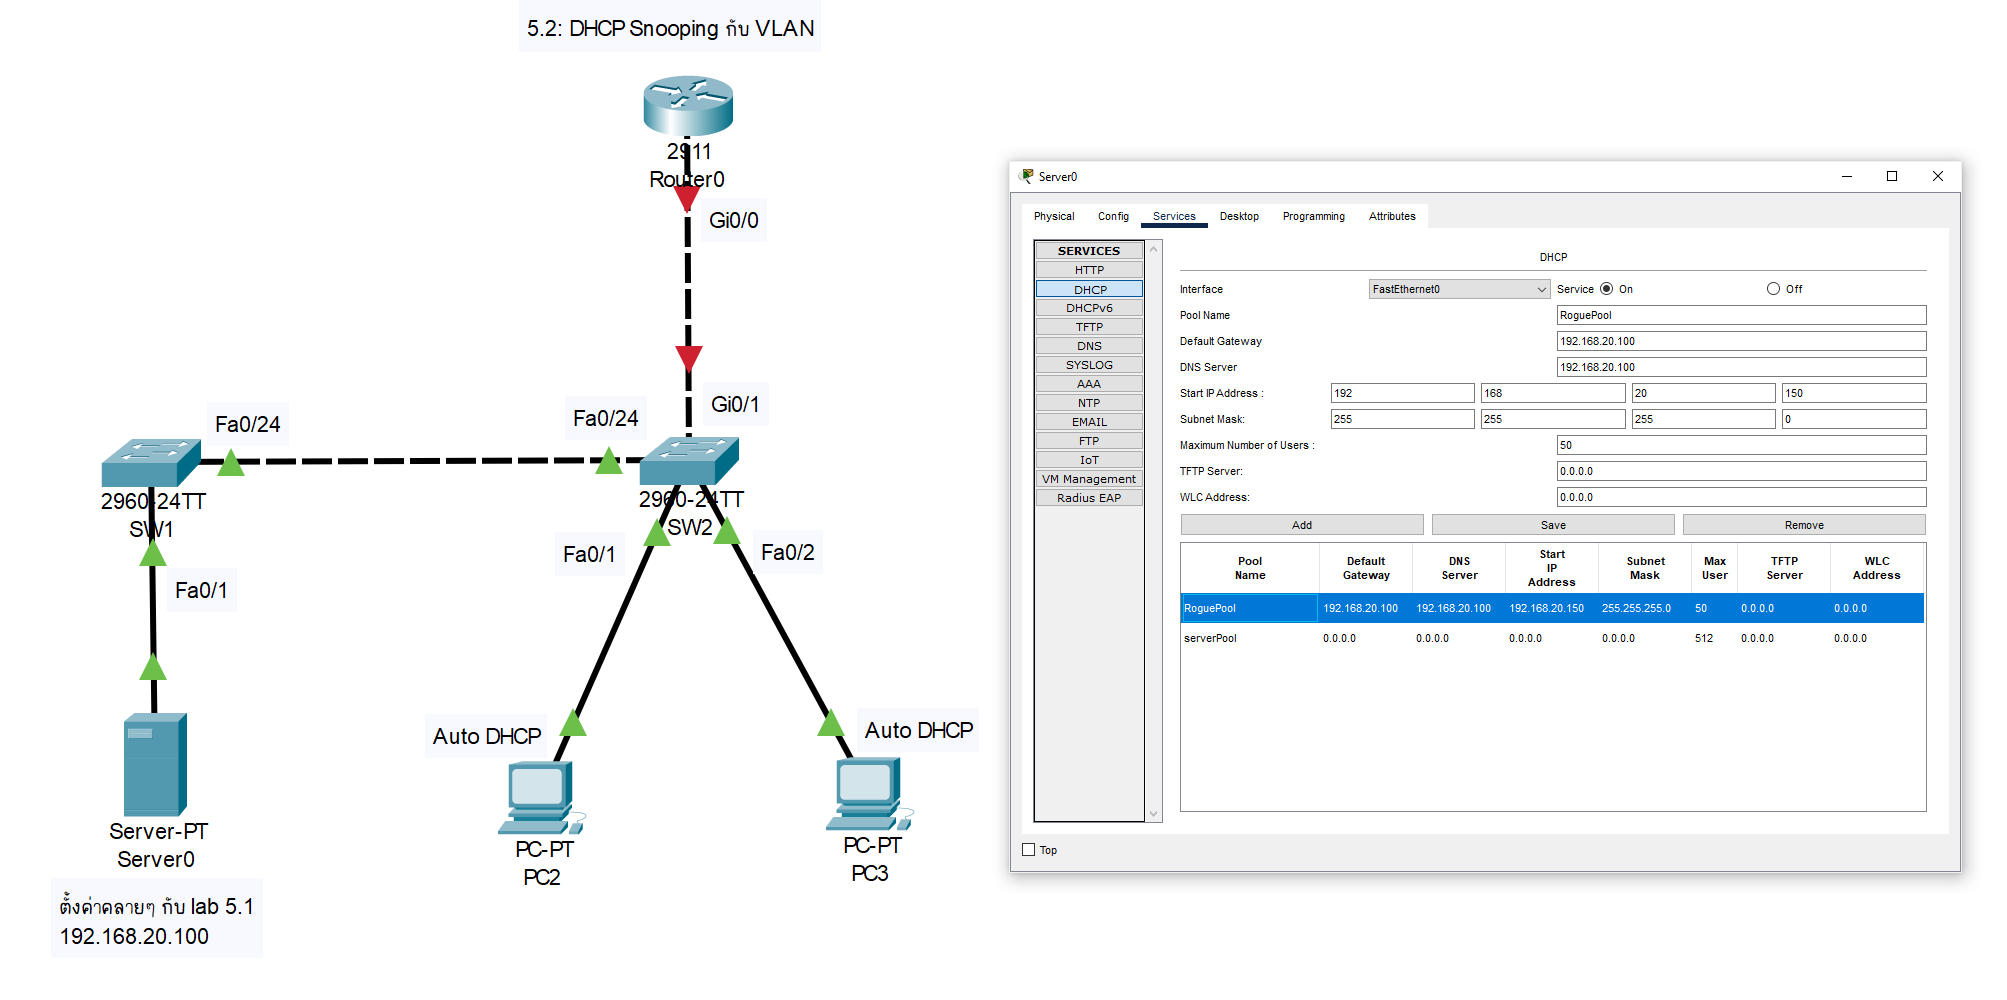
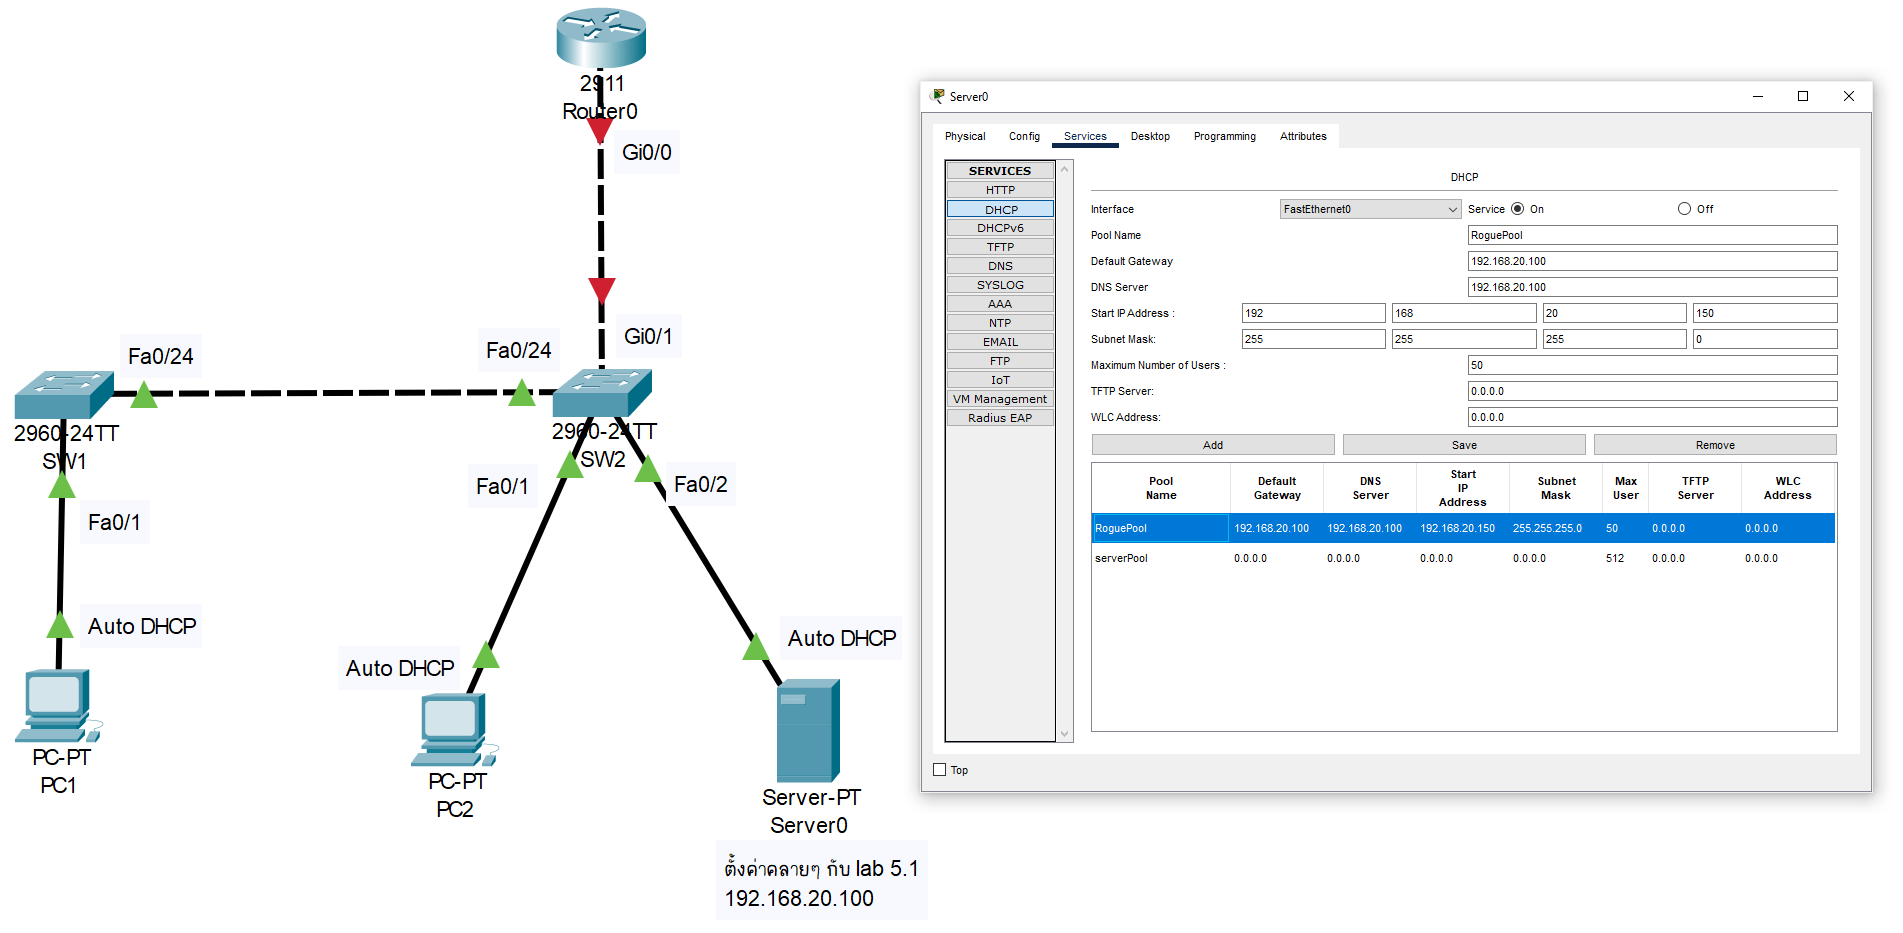
edit img

diff --git a/all/ใบงาน LAB 4-8 DHCP.md b/all/ใบงาน LAB 4-8 DHCP.md
@@ -430,7 +430,7 @@ SW1# show ip dhcp snooping     <-- รันตอนตั้งค่าเส
 [PC1 (VLAN 10)] -- [SW1 (Fa0/1)]
                     [SW1 (Fa0/24)] -- [SW2 (Fa0/24)]
 [PC2 (VLAN 20)] -- [SW2 (Fa0/1)]
-[PC3 (VLAN 20)] -- [SW2 (Fa0/2)]
+[Server-PT (VLAN 20)] -- [SW2 (Fa0/2)]
                     [SW1 (Gi0/1)] -- [R1 (Gi0/0)]
 ```
 
